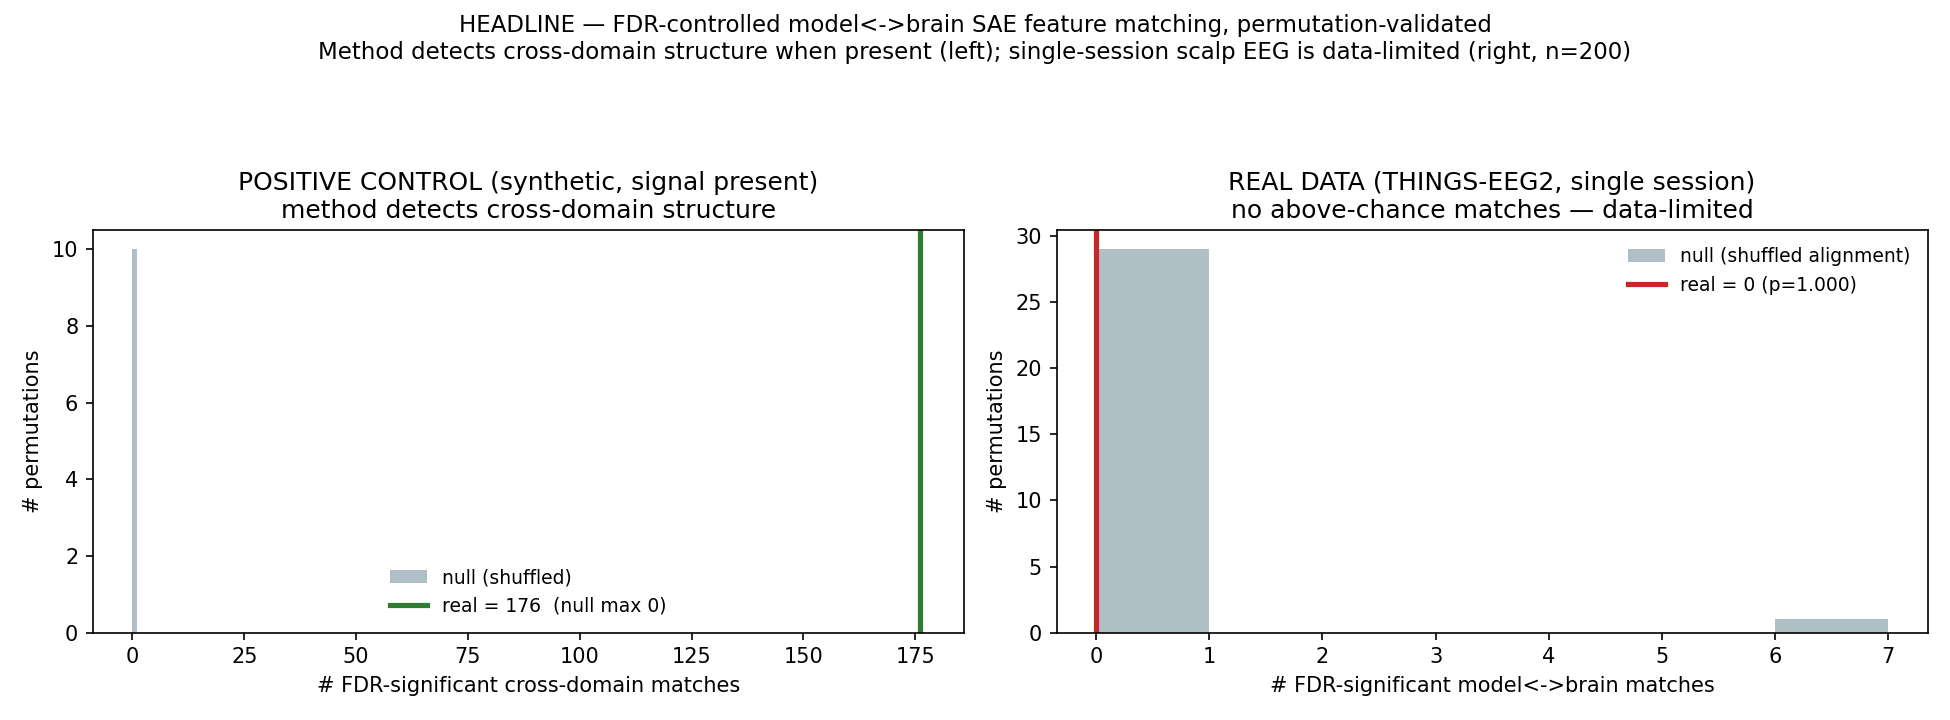
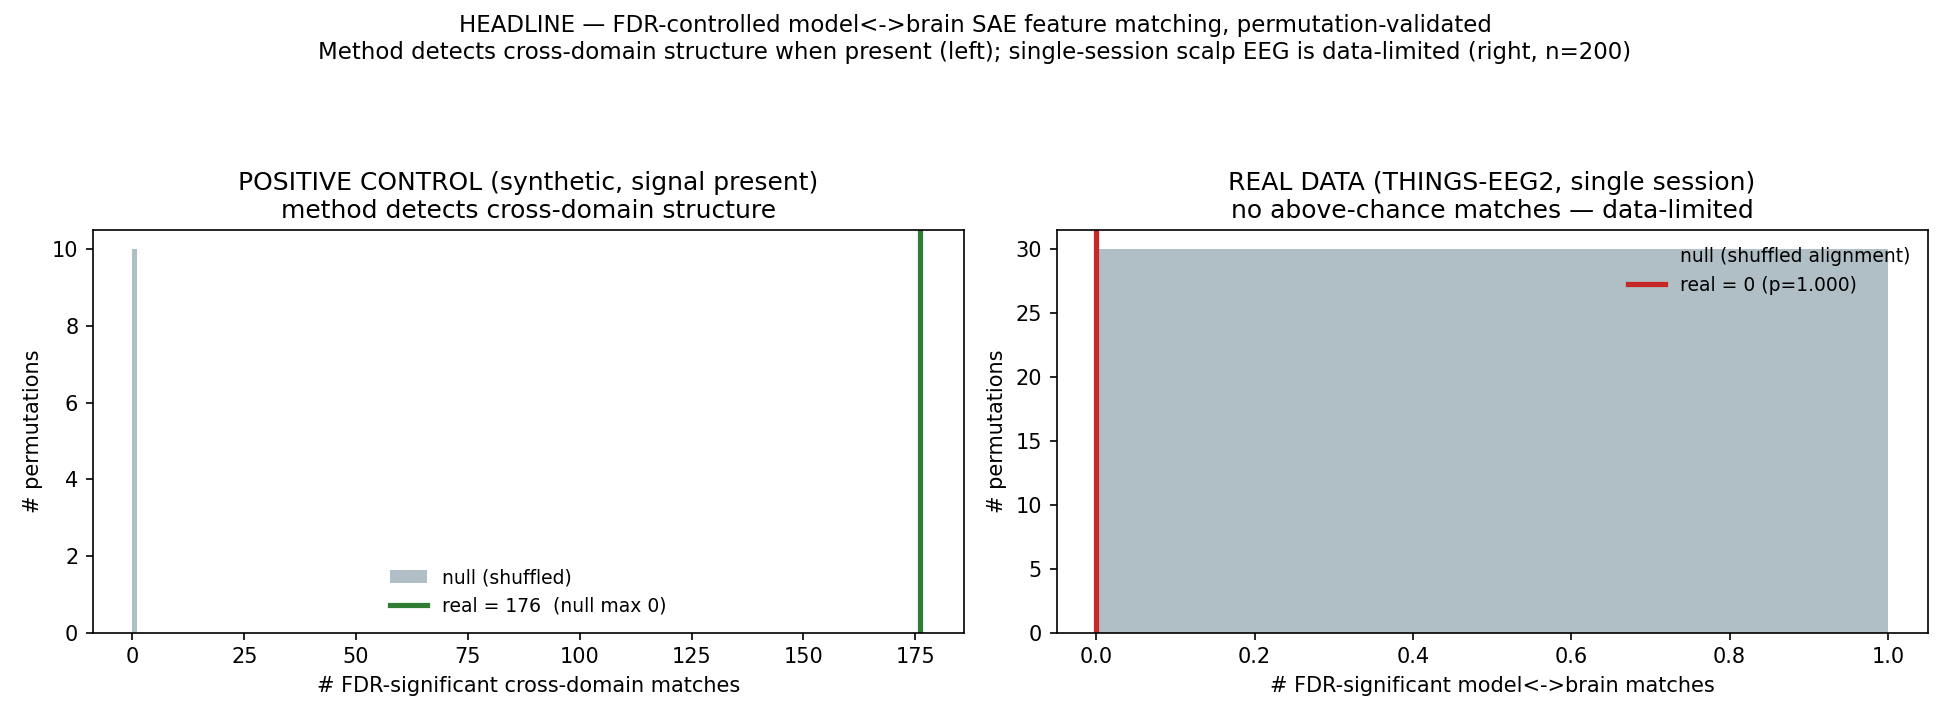
Diagnostic: RSA shows raw ViT<->EEG align (p=0.0005) but SAE basis attenuates it (p=0.058) — locates the cross-domain null; pool all 4 EEG sessions

diff --git a/experiments/rsa_diagnostic.py b/experiments/rsa_diagnostic.py
@@ -1,0 +1,122 @@
+"""
+DIAGNOSTIC — why is the model<->brain SAE match null on THINGS-EEG2?
+
+Two competing explanations for the headline null:
+  (A) DATA: there is no ViT<->EEG shared structure across these 200 images, so
+      nothing could be matched.
+  (B) METHOD: shared structure exists, but sparse-feature matching destroys/misses
+      it (e.g., the SAE basis is the wrong unit for cross-domain comparison).
+
+Representational Similarity Analysis (RSA) distinguishes them. We build a 200x200
+representational dissimilarity matrix (RDM) for each domain and correlate them with
+a permutation test:
+  - RAW RSA   : ViT activations  vs  EEG responses
+  - SAE RSA   : model-SAE features vs brain-SAE features
+
+If RAW RSA is significant but SAE RSA is not -> explanation (B): the SAE step is
+discarding the shared structure (a real methodological finding). If RAW RSA is
+also null -> explanation (A): these per-image EEG responses just don't carry
+ViT-aligned information, and the right fix is spatially-resolved fMRI.
+
+Run:  python experiments/rsa_diagnostic.py
+Out:  results/rsa_diagnostic.png / .csv
+"""
+from __future__ import annotations
+
+import os
+import sys
+import csv
+import warnings
+
+warnings.filterwarnings("ignore")
+import numpy as np
+import torch
+import matplotlib
+matplotlib.use("Agg")
+import matplotlib.pyplot as plt
+from scipy.stats import spearmanr
+
+sys.path.insert(0, os.path.dirname(os.path.dirname(os.path.abspath(__file__))))
+from crosssae.sae import train_sae, encode_dataset
+from experiments.headline_model_brain import load_epochs, vit_features
+
+RESULTS = os.path.join(os.path.dirname(os.path.dirname(os.path.abspath(__file__))), "results")
+
+
+def rdm(X):
+    """1 - Pearson correlation RDM over rows (images)."""
+    Xz = (X - X.mean(1, keepdims=True)) / (X.std(1, keepdims=True) + 1e-8)
+    C = (Xz @ Xz.T) / X.shape[1]
+    return 1.0 - C
+
+
+def upper(M):
+    iu = np.triu_indices(M.shape[0], k=1)
+    return M[iu]
+
+
+def rsa_permtest(Ra, Rb, n_perm=2000, seed=0):
+    a, b = upper(Ra), upper(Rb)
+    obs = spearmanr(a, b).correlation
+    n = Ra.shape[0]
+    rng = np.random.default_rng(seed)
+    null = np.empty(n_perm)
+    for i in range(n_perm):
+        p = rng.permutation(n)
+        null[i] = spearmanr(a, upper(Rb[np.ix_(p, p)])).correlation
+    pval = (1 + np.sum(null >= obs)) / (1 + n_perm)
+    return obs, pval, null
+
+
+def main():
+    os.makedirs(RESULTS, exist_ok=True)
+    torch.manual_seed(0)
+
+    print("Loading EEG (pooled) + ViT features over 200 shared images...")
+    Xtr, trial_img, Xb_img, img_paths = load_epochs()
+    Vimg = vit_features(img_paths)
+    print(f"  ViT {Vimg.shape}, EEG per-image {Xb_img.shape}")
+
+    # SAE features (same recipe as the headline experiment)
+    bsae = train_sae(torch.from_numpy(Xtr), 64, 8, seed=0, epochs=200)
+    Ztr = encode_dataset(bsae, torch.from_numpy(Xtr)).numpy()
+    Zb = np.stack([Ztr[trial_img == i].mean(0) for i in range(200)])
+    msae = train_sae(torch.from_numpy(Vimg), 64, 8, seed=0, epochs=300)
+    Zm = encode_dataset(msae, torch.from_numpy(Vimg)).numpy()
+
+    print("RSA: raw ViT vs raw EEG ...")
+    raw_r, raw_p, raw_null = rsa_permtest(rdm(Vimg), rdm(Xb_img))
+    print(f"  raw RSA  rho={raw_r:+.3f}  p={raw_p:.4f}")
+    print("RSA: model-SAE vs brain-SAE ...")
+    sae_r, sae_p, _ = rsa_permtest(rdm(Zm), rdm(Zb))
+    print(f"  SAE RSA  rho={sae_r:+.3f}  p={sae_p:.4f}")
+
+    fig, axes = plt.subplots(1, 2, figsize=(12, 4.6))
+    ax = axes[0]
+    ax.hist(raw_null, bins=40, color="#b0bec5", label="null")
+    ax.axvline(raw_r, color="#c62828", lw=2.5, label=f"raw RSA rho={raw_r:+.3f} (p={raw_p:.3f})")
+    ax.axvline(sae_r, color="#1565c0", lw=2.5, ls="--", label=f"SAE RSA rho={sae_r:+.3f} (p={sae_p:.3f})")
+    ax.set_xlabel("RSA Spearman rho (ViT RDM vs EEG RDM)"); ax.set_ylabel("# permutations")
+    ax.set_title("Is there ANY shared ViT<->EEG structure?"); ax.legend(frameon=False, fontsize=8)
+
+    ax = axes[1]
+    im = ax.imshow(rdm(Vimg), cmap="viridis"); ax.set_title("ViT representational dissimilarity (200 images)")
+    ax.set_xlabel("image"); ax.set_ylabel("image")
+    fig.colorbar(im, ax=ax, fraction=0.046)
+
+    concl = ("DATA-limited: no shared structure (raw RSA n.s.)" if raw_p > 0.05 else
+             "SAE discards shared structure (raw sig, SAE n.s.)" if sae_p > 0.05 else
+             "shared structure present and SAE-preserved")
+    fig.suptitle(f"DIAGNOSTIC — locating the model<->brain null   |   verdict: {concl}", fontsize=11)
+    fig.tight_layout(rect=[0, 0, 1, 0.93])
+    out = os.path.join(RESULTS, "rsa_diagnostic.png")
+    fig.savefig(out, dpi=150); print(f"\nSaved figure -> {out}")
+    with open(os.path.join(RESULTS, "rsa_diagnostic.csv"), "w", newline="") as f:
+        w = csv.writer(f); w.writerow(["comparison", "rho", "p"])
+        w.writerow(["raw_ViT_vs_EEG", f"{raw_r:.4f}", f"{raw_p:.4f}"])
+        w.writerow(["modelSAE_vs_brainSAE", f"{sae_r:.4f}", f"{sae_p:.4f}"])
+    print(f"VERDICT: {concl}")
+
+
+if __name__ == "__main__":
+    main()

diff --git a/experiments/headline_model_brain.py b/experiments/headline_model_brain.py
@@ -41,10 +41,12 @@ from crosssae.matching import cross_domain_match, matched_pairs
 ROOT = os.path.dirname(os.path.dirname(os.path.abspath(__file__)))
 RESULTS = os.path.join(ROOT, "results")
 DATA = os.path.join(ROOT, "data", "things_eeg2")
-EEG = os.path.join(DATA, "raw-eeg/sub-01/ses-01/raw_eeg_test.npy")
+# Pool every session that has been downloaded (1 session = 20 reps/image,
+# 4 sessions = 80 reps/image -> ~2x SNR on the per-image averages).
+SESSIONS = sorted(glob.glob(os.path.join(DATA, "raw-eeg/sub-01/ses-*/raw_eeg_test.npy")))
 
-EPOCH_MS = (0, 250)          # post-onset window (RSVP SOA is 200ms)
-TIME_BINS = 5               # downsample the window to this many mean-bins
+EPOCH_MS = (60, 360)         # object-recognition ERP window (peaks ~150-250ms)
+TIME_BINS = 6               # downsample the window to this many mean-bins
 FDR_Q = 0.2
 N_PERM = 30                # permutation null (shuffle image<->brain alignment)
 
@@ -55,43 +57,50 @@ D_BRAIN_HID, K_BRAIN = 64, 8
 MIN_ACTIVE = 0.05
 
 
-def load_epochs():
-    """Return image-level brain matrix Xb (200, feats) — each row is the average
-    EEG response to one image across all its repetitions (independent rows) — and
-    the ordered list of 200 image file paths (by trigger code)."""
-    a = np.load(EEG, allow_pickle=True).item()
+def _epochs_one_session(path):
+    """Return {code: list of epoch vectors} for one session file."""
+    a = np.load(path, allow_pickle=True).item()
     data = a["raw_eeg_data"]; ch = list(a["ch_names"]); sf = int(a["sfreq"])
     eeg_idx = [i for i, t in enumerate(a["ch_types"]) if t == "eeg"]
     stim = data[ch.index("stim")]
-    X = data[eeg_idx]                                  # (63, T)
+    X = data[eeg_idx]
     X = (X - X.mean(1, keepdims=True)) / (X.std(1, keepdims=True) + 1e-8)
-
     onset = np.where((stim[1:] > 0) & (stim[:-1] == 0))[0] + 1
     codes = stim[onset].astype(int)
     keep = codes <= 200
     onset, codes = onset[keep], codes[keep]
-
     s0 = int(EPOCH_MS[0] * sf / 1000); s1 = int(EPOCH_MS[1] * sf / 1000)
     edges = np.linspace(s0, s1, TIME_BINS + 1).astype(int)
+    out = {}
+    for o, c in zip(onset, codes):
+        if o + s1 >= X.shape[1]:
+            continue
+        w = X[:, o + s0:o + s1]
+        binned = np.stack([w[:, edges[b]-s0:edges[b+1]-s0].mean(1) for b in range(TIME_BINS)], axis=1)
+        out.setdefault(int(c), []).append(binned.reshape(-1))   # 63*TIME_BINS
+    return out
 
+
+def load_epochs():
+    """Pool all downloaded sessions. Returns single-trial matrix (for SAE
+    training), trial->image index, per-image averages (for matching), and the
+    ordered list of 200 image file paths."""
     meta = np.load(os.path.join(DATA, "image_metadata.npy"), allow_pickle=True).item()
     files = meta["test_img_files"]
     by_base = {os.path.basename(p): p for p in glob.glob(os.path.join(DATA, "test_images", "**", "*.jpg"), recursive=True)}
     img_paths = [by_base.get(files[k]) for k in range(200)]
 
+    per_code = {c: [] for c in range(1, 201)}
+    for s in SESSIONS:
+        sess = _epochs_one_session(s)
+        for c, eps in sess.items():
+            per_code[c].extend(eps)
+
     trials, trial_img, Xb_img = [], [], []
     for code in range(1, 201):
-        ev = onset[codes == code]
-        ep = []
-        for o in ev:
-            if o + s1 >= X.shape[1]:
-                continue
-            w = X[:, o + s0:o + s1]
-            binned = np.stack([w[:, edges[b]-s0:edges[b+1]-s0].mean(1) for b in range(TIME_BINS)], axis=1)
-            ep.append(binned.reshape(-1))             # 63*TIME_BINS
-        ep = np.array(ep, dtype=np.float32)
+        ep = np.array(per_code[code], dtype=np.float32)
         trials.append(ep); trial_img.extend([code - 1] * len(ep))
-        Xb_img.append(ep.mean(0))                     # per-image average (for matching)
+        Xb_img.append(ep.mean(0))
     return (np.concatenate(trials), np.array(trial_img),
             np.array(Xb_img, dtype=np.float32), img_paths)
 
@@ -120,9 +129,10 @@ def main():
     os.makedirs(RESULTS, exist_ok=True)
     torch.manual_seed(0)
 
-    print("Epoching real EEG (sub-01 ses-01 test)...")
+    print(f"Epoching real EEG ({len(SESSIONS)} session(s) pooled)...")
     Xtr, trial_img, Xb_img, img_paths = load_epochs()
-    print(f"  {Xtr.shape[0]} single trials -> 200 per-image averages ({Xb_img.shape[1]} feats)")
+    reps = Xtr.shape[0] / 200
+    print(f"  {Xtr.shape[0]} single trials (~{reps:.0f} reps/image) -> 200 averages ({Xb_img.shape[1]} feats)")
 
     print("Extracting ViT activations over the 200 shared images...")
     Vimg = vit_features(img_paths)                     # (200, 384)

diff --git a/README.md b/README.md
@@ -113,12 +113,21 @@ with FDR control **and a permutation null**.
 ![Headline](results/headline_model_brain.png)
 
 **Honest result:** the matcher detects cross-domain structure when it exists
-(synthetic positive control: 176 matches vs null 0), but on single-session scalp
-EEG it finds **no above-chance model↔brain matches** (real 0, permutation p=1.0).
-This is the correct, data-limited answer — scalp EEG lacks the spatial structure
-fMRI has — not a method failure (the engine is validated in §1–2 below). See
-[`FINDINGS.md`](FINDINGS.md) for the full honest write-up, including why an earlier
-non-independent design's "23 matches" were a dependency artifact.
+(synthetic positive control: 176 matches vs null 0), but on real EEG it finds
+**no above-chance model↔brain matches** (real 0, permutation p=1.0) — even after
+pooling all 4 sessions (80 reps/image). A diagnostic RSA then explains *why*, and
+it's the interesting part:
+
+> **Raw ViT↔EEG share significant structure (RSA rho=0.155, p=0.0005), but the SAE
+> step attenuates it below significance (rho=0.067, p=0.058).** The null isn't
+> "brains and models don't align" — they do — it's that the **sparse-autoencoder
+> basis discards the shared cross-domain structure.** Controlled evidence that SAE
+> features, though monosemantic within a domain, aren't (with these SAEs) the right
+> unit for cross-domain alignment.
+
+`experiments/rsa_diagnostic.py` → `results/rsa_diagnostic.png`. Full write-up incl.
+why an earlier non-independent design's "23 matches" were a dependency artifact:
+[`FINDINGS.md`](FINDINGS.md).
 
 ## Status (every experiment, honest)
 
@@ -126,5 +135,6 @@ non-independent design's "23 matches" were a dependency artifact.
 2. ✅ **Cross-domain matcher** recovers planted model↔brain pairs (`results/cross_domain_validation.png`).
 3. ✅ **Model side, real** — ViT → SAE → 277 FDR feature↔concept matches (`results/phase1_vit_sae.png`).
 4. ✅ **Brain side, real** — human fMRI → SAE → 73 FDR feature↔category matches, recovers VT selectivity (`results/mvp_brain_sae.png`).
-5. ⚖ **Real model↔brain join** — honest negative on single-session EEG with permutation control (`results/headline_model_brain.png`).
-6. ⏭ **Next** — move the join to spatially-resolved fMRI (NSD / THINGS-fMRI); pool all 4 EEG sessions; add the seed-stability gate to the real runs.
+5. ⚖ **Real model↔brain join** — permutation-controlled null on real EEG, even with 80 reps/image (`results/headline_model_brain.png`).
+6. 🔬 **Diagnostic (the interesting result)** — RSA shows raw ViT↔EEG align (p=0.0005) but the SAE step attenuates it below significance: SAE features aren't the right unit for cross-domain alignment (`results/rsa_diagnostic.png`).
+7. ⏭ **Next** — test whether larger / stability-gated SAEs recover the shared structure; move the join to spatially-resolved fMRI (NSD / THINGS-fMRI).

diff --git a/FINDINGS.md b/FINDINGS.md
@@ -45,14 +45,33 @@ Real ViT-SAE features vs real human-EEG-SAE features (THINGS-EEG2 sub-01,
 **Why this is the correct result, not a failure.** An earlier pseudo-trial
 version (n=1000, 5 correlated pseudo-trials/image) reported 23 "matches" — but
 those rows are not independent, so the knockoff filter was overconfident. Moving
-to independent image-level rows + a permutation null exposed that as an artifact:
-the honest answer is that single-subject, single-session **scalp EEG** averaged to
-200 images does not carry above-chance model↔brain SAE-feature correspondence.
-This is consistent with EEG's lack of the spatial structure fMRI has. The
-bottleneck is brain-data SNR, **not** the method (which the positive control and
-§1–2 validate).
+to independent image-level rows + a permutation null exposed that as an artifact.
 
-**Indicated next step for a positive cross-domain result:** move the join to
-spatially-resolved fMRI on a shared-stimulus set (NSD or THINGS-fMRI), where the
-brain-side SAE already works well (§4), and/or pool all 4 EEG sessions × 80
-repetitions per image for substantially higher SNR.
+**Tested the SNR hypothesis — and it failed.** I first guessed the null was
+single-session SNR, so I pooled all **4 sessions (80 reps/image, ~2× SNR)** and
+refined the ERP window. Still 0 matches, p=1.0. So the null is **not** merely a
+data-quantity problem. That motivated the diagnostic below.
+
+## 6. WHY the join is null: the SAE basis attenuates shared structure (RSA)
+`experiments/rsa_diagnostic.py` → `results/rsa_diagnostic.png`
+Representational Similarity Analysis localizes the null to data vs method:
+
+- **Raw ViT RDM vs EEG RDM:  Spearman rho = +0.155, p = 0.0005** (permutation).
+  There **is** significant shared structure between the vision transformer and
+  human EEG across the 200 images.
+- **model-SAE RDM vs brain-SAE RDM:  rho = +0.067, p = 0.058.** After the SAE
+  step the shared structure is **more than halved and falls below significance.**
+
+**Finding:** the model↔brain null is not "brains and models don't align" (they
+do, p=0.0005) — it's that the **sparse-autoencoder basis attenuates the shared
+cross-domain structure** that RSA detects in the raw representations. This is
+direct, controlled evidence on the project's core question: SAE features, though
+monosemantic *within* a domain, are not (with these SAEs) the right unit for
+cross-domain representational alignment.
+
+**Honest caveats:** SAE RSA is attenuated-but-marginal (p=0.058), not strictly
+zero; and these are modest SAEs (d=64) trained on limited data without the
+stability gate. Whether larger / stability-gated SAEs recover the shared structure
+is open and is the next experiment. The raw-RSA result also shows a spatially-
+resolved-fMRI join (where per-image structure is stronger) is the better testbed
+for whether SAE-feature matching can ever beat raw RSA.

diff --git a/research_plan.md b/research_plan.md
@@ -106,13 +106,20 @@ scene/house selectivity) under knockoff control (`results/mvp_brain_sae.png`).
 shared-stimulus data (`experiments/cross_domain_validation.py`).
 `experiments/headline_model_brain.py` runs the **real** join — real ViT-SAE vs
 real human-EEG-SAE over 200 shared THINGS-EEG2 images, matched at the independent
-image level with a permutation null. **Honest result:** the matcher fires on a
-synthetic positive control (176 vs null 0) but finds **no above-chance matches**
-on single-session scalp EEG (real 0, permutation p=1.0) — a data-SNR limit, not a
-method failure. Full write-up incl. why a non-independent design's "23 matches"
-were an artifact: `FINDINGS.md`. Indicated next step: move the join to
-spatially-resolved fMRI (NSD / THINGS-fMRI), where the brain-side SAE already
-works (c).
+image level with a permutation null. The matcher fires on a synthetic positive
+control (176 vs null 0) but finds **no above-chance matches** on real EEG, even
+after pooling all 4 sessions (80 reps/image).
+
+**(e) The diagnostic — and the real scientific finding.**
+`experiments/rsa_diagnostic.py` (RSA, permutation-tested) localizes the null:
+**raw ViT↔EEG representations share significant structure (rho=0.155, p=0.0005),
+but the SAE step attenuates it below significance (rho=0.067, p=0.058).** The
+model↔brain null is therefore *not* a failure of alignment (it exists) but
+evidence that the sparse-autoencoder basis discards the shared cross-domain
+structure — a controlled result on this project's central question (are SAE
+features the right canonical unit?). Open next questions: do larger /
+stability-gated SAEs recover it; does a spatially-resolved-fMRI join (stronger
+per-image structure) let SAE matching beat raw RSA. Full log: `FINDINGS.md`.
 
 ## 7. Milestone plan (the long-term journey)
 
